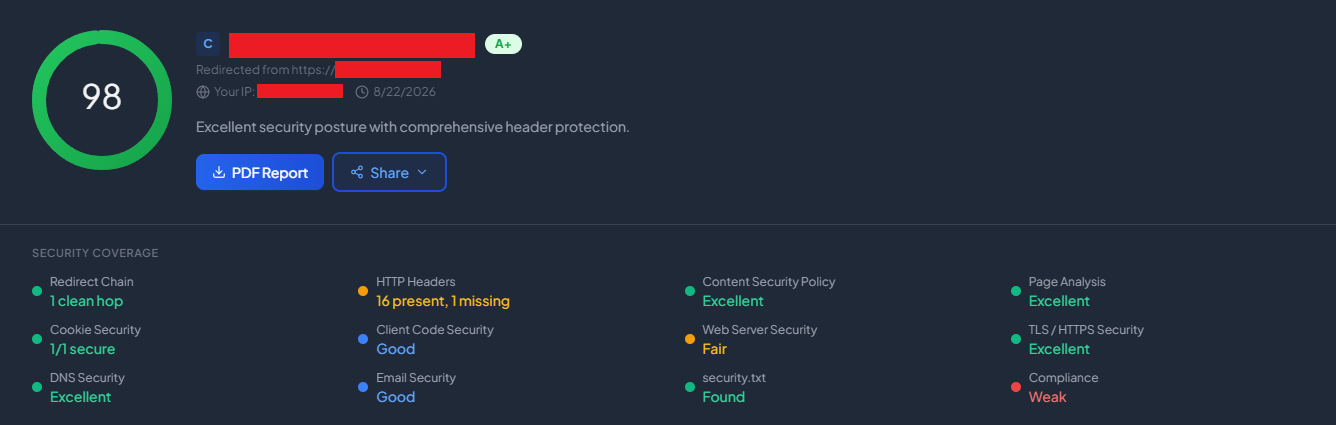
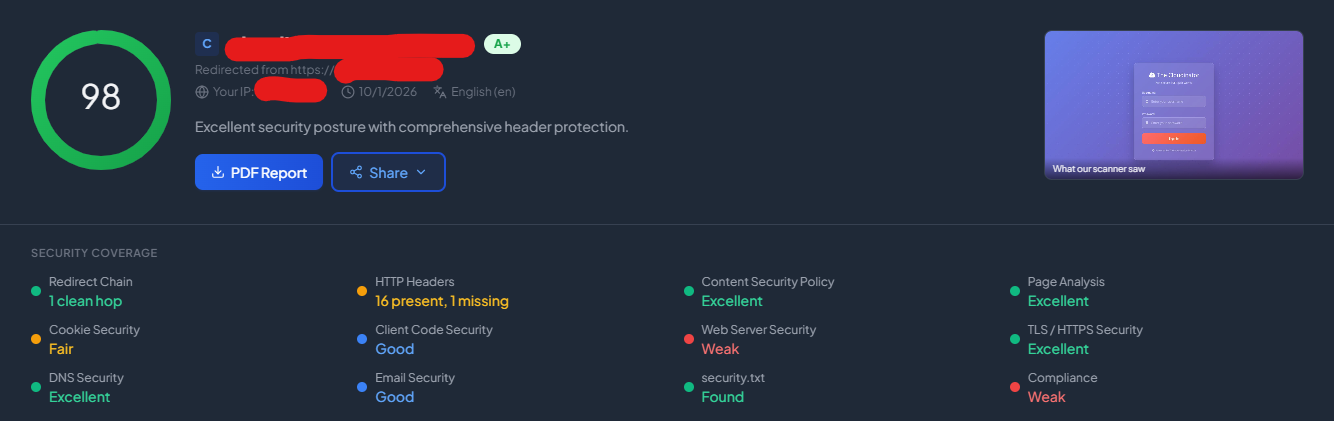
Update docs/SETUP_TUNNEL_ADVANCED.md and sitesecurityscore screenshot to latest

diff --git a/docs/SETUP_TUNNEL_ADVANCED.md b/docs/SETUP_TUNNEL_ADVANCED.md
@@ -265,6 +265,11 @@ Crawler Hints: On
 Caching > Tiered Cache > On
 Automatic Upper Tiers: Smart Tiered Cache
 
+Rules > Overview > Create Rule > Response Header Transform Rule
+Rule name: Remove expect-ct header
+If incoming requests match…: All incoming requests
+Then: Remove, Header Name: expect-ct
+
 Network
 IPv6 Compatibility: On
 gRPC: On
